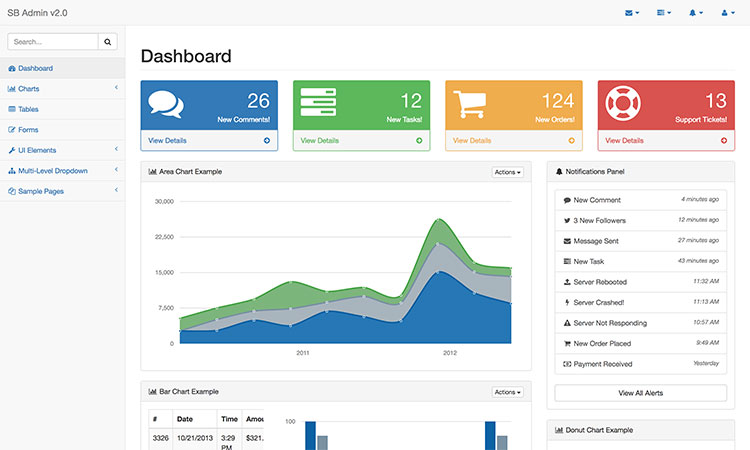
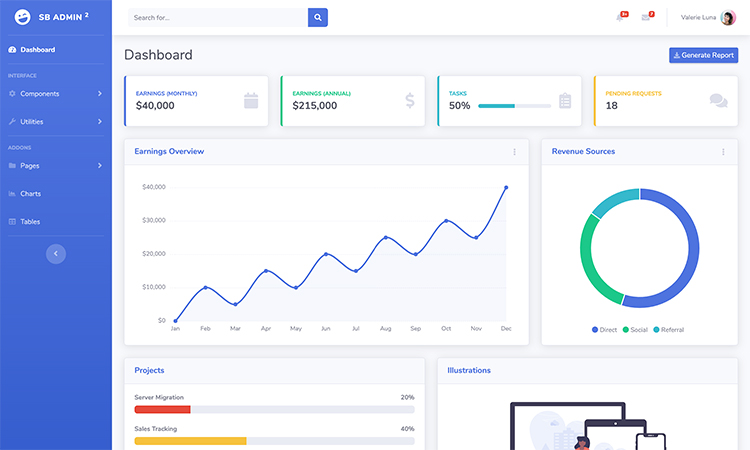
update sb admin 2 preview

diff --git a/_templates/2014-01-14-template-sb-admin-2.md b/_templates/2014-01-14-template-sb-admin-2.md
@@ -13,19 +13,16 @@ meta-title:       "SB Admin 2 - Free Bootstrap Admin Theme"
 meta-description: "A free Bootstrap admin theme, dashboard, or web application UI. All Start Bootstrap templates are free to download and open source."
 
 features:
-  - Responsive sidebar menu with multi-level dropdowns and active classes
-  - LESS files included for deeper customization
-  - Responsive top navigation menu with dropdown menu items
-  - 3 custom panel styles - red, yellow, and green
-  - Two Powerful jQuery charting plugins, Flot Charts and Morris.js
-  - Sortable, searchable, multi-page Bootstrap tables using the DataTables jQuery plugin
-  - Custom circle icon buttons from Bootsnipp
-  - Built-in library of Bootstrap social buttons from Bootstrap Social
-  - Responsive Bootstrap timeline from Bootsnipp
-  - Bootstrap chat widget from Bootsnipp
-  - Login page by Bootsnipp
+  - Modern, material inspired design with a custom color system and fonts
+  - Responsive, toggleable sidebar menu with flexbox layout
+  - SCSS development environment with Gulp tasks
+  - Dependency support using npm
+  - Custom UI components and utility classes
+  - Chart demos from Chart.js
+  - Sortable, searchable, multi-page Bootstrap tables using the DataTables plugin
+  - Custom pages including 404, and user pages (login, register, forgot password)
 
-long-description: "SB Admin 2 Bootstrap admin theme, dashboard template, or webapp UI starter. The theme features a variety of custom jQuery plugins to add extended functionality past the built in Bootstrap UI features."
+long-description: "SB Admin 2 Bootstrap admin theme, dashboard template, or webapp UI starter. The theme features a variety of custom features to extend the functionality of Bootstrap."
 
 alt-version:      "no"
 
